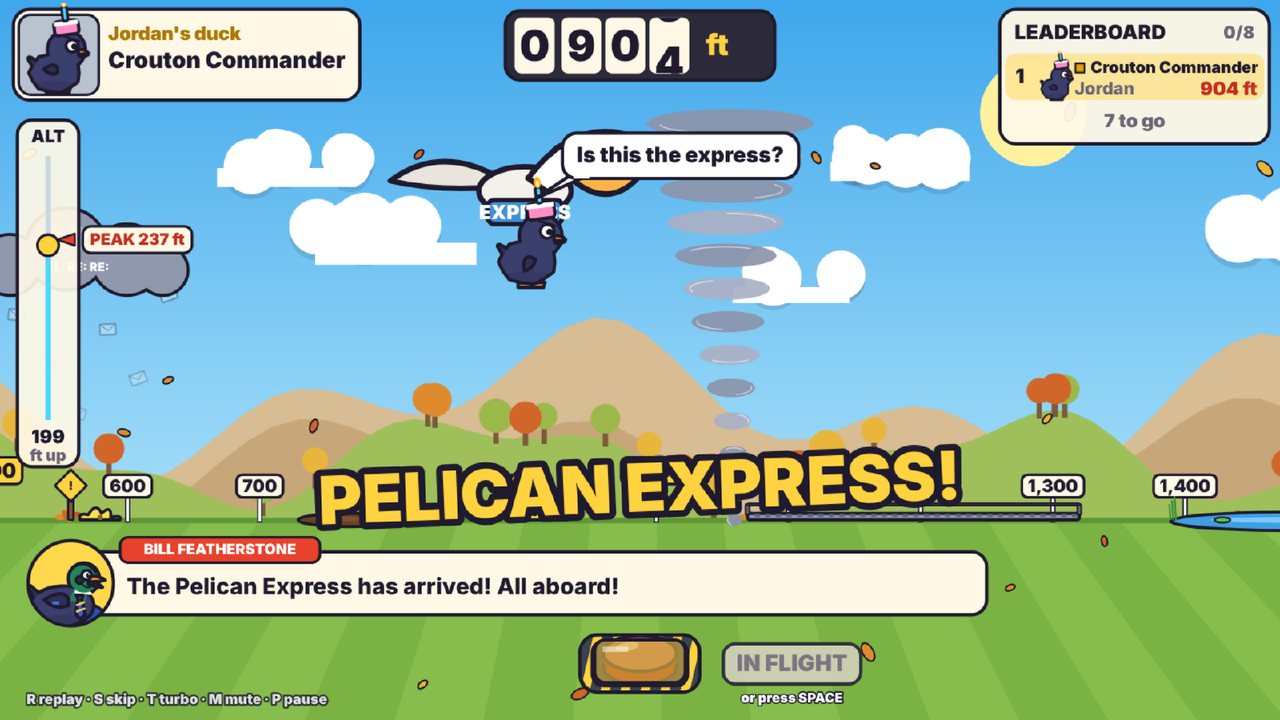
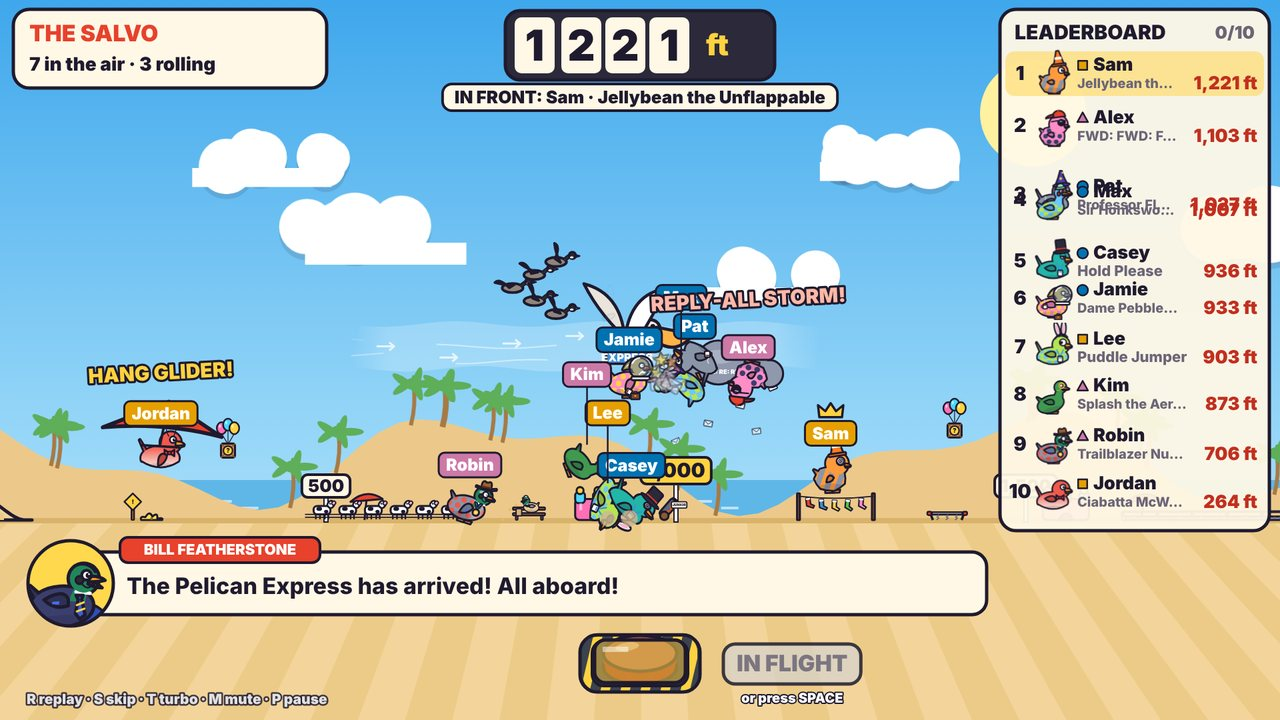
Salvo: Bill's running call, record-line moments, README
- Bill keeps the call going through the flight: the big moments first,
  then what he missed while talking, then who is in front.
- The first duck past last show's winning distance or the pond record
  line gets a call-out and a cheer; the board shows gold, silver and
  bronze after the volley.
- With more than 26 ducks the board keeps the top 8 and pages the rest.
- Reveal screen says LOCK THEM IN / INTO THE CANNON! in a salvo.
- Roster toggles fit with the new Salvo tick box.
- README rewritten for the salvo (show flow, keys, pacing, picture).

Claude-Session: https://claude.ai/code/session_01L5ntNDsEwxRWUo6xWcqN4w

diff --git a/index.html b/index.html
@@ -65,6 +65,7 @@
   #roster .side h3 { margin: 0; font-size: 24px; }
   #roster .side .hint { font-size: 17px; font-weight: 700; opacity: .75; }
   #roster .toggles label { display: flex; align-items: center; gap: 10px; font-size: 21px; font-weight: 800; }
+  #roster .toggles .tgrow { display: flex; gap: 22px; flex-wrap: wrap; }
   #roster .bar { display: flex; gap: 8px; flex-wrap: wrap; align-items: center; }
   #roster .total { font-size: 30px; font-weight: 900; }
   #roster .warn { color: #b0392b; font-size: 20px; font-weight: 900; min-height: 24px; }
@@ -487,6 +488,7 @@ C.LINES = {
   salvoLaunch: ['THERE THEY GO! All {n} of them!', '{n} ducks in the air! Keep your eye on yours!', 'What a sight! The whole flock is away!', 'BOOM! Find your duck, folks, find your duck!', "That's {n} ducks airborne and nobody steering!"],
   salvoLead: ['{duck} takes the lead!', '{player}\'s duck is out in front now!', 'A new duck in front: {duck}!', 'Here comes {duck}, right to the front!', '{duck} goes past everybody!'],
   salvoLast: ['Everybody is down except {duck}. Still going!', "All eyes on {duck}: the last duck moving!", 'One duck left out there: {duck}!', "{player}'s duck is the only one still rolling!"],
+  salvoCall: ['{duck} is out in front at {distance}!', 'Still {n} ducks on the move out there!', "{player}'s duck leads the way: {distance} and counting.", '{n} of them still going. Do not blink!', 'Out in front right now: {duck}!', "It's {duck} at the front of the flock. {n} ducks still moving!", 'Anybody could still win this. {n} ducks left out there!'],
   salvoRecord: ['{duck} is past the pond record line and still going!', "That's record country! {player}'s duck is out there!", '{duck} just flew past the all-time record!'],
   salvoWin: ['{duck} is the farthest duck out there: {distance}!', 'Nobody went farther than {duck}! {distance}!', "It's {duck} out in front when the feathers settle: {distance}!", '{duck} takes it by {margin}!'],
   debutIntro: ['A first ever launch for {player}! Be gentle, Thunderbill.', 'Welcome to the cannon, {player}! First time in the barrel.', "{player}'s very first duck. Everybody remembers their first."],
@@ -4288,7 +4290,7 @@ const Roster = {
       '<div class="bar"><button class="btn small green" id="onlybtn" title="Tick exactly these people and untick everyone else">Tick only these</button><button class="btn small ghost" id="pastebtn" title="Tick these people and keep everyone already ticked">Add to ticked</button></div></div>' +
       '<div class="box"><h3>Add one person</h3><div class="bar"><input type="text" id="addname" maxlength="40" placeholder="Name" style="flex:1;min-width:0"><select id="addteam">' + T.map((t, j) => '<option value="' + j + '">' + esc(t.name) + '</option>').join('') + '</select><button class="btn small green" id="addbtn">Add</button></div>' +
       '<div class="bar"><input type="text" id="rfind" placeholder="Find a name…" value="' + esc(this.filter) + '" style="flex:1;min-width:0"></div></div>' +
-      '<div class="box toggles"><label><input type="checkbox" id="tpractice"' + (S.settings.practice ? ' checked' : '') + '> Practice race (not saved, next show only)</label><label><input type="checkbox" id="tauto"' + (S.settings.autoAdvance ? ' checked' : '') + '> Auto-advance</label><label><input type="checkbox" id="tturbo"' + (S.settings.turboDefault ? ' checked' : '') + '> Turbo (2x)</label><label title="Every duck in the cannon at once. Untick to launch them one by one."><input type="checkbox" id="tsalvo"' + (S.settings.salvo !== false ? ' checked' : '') + '> Salvo (all ducks at once)</label>' +
+      '<div class="box toggles"><label><input type="checkbox" id="tpractice"' + (S.settings.practice ? ' checked' : '') + '> Practice race (not saved, next show only)</label><div class="tgrow"><label><input type="checkbox" id="tauto"' + (S.settings.autoAdvance ? ' checked' : '') + '> Auto-advance</label><label><input type="checkbox" id="tturbo"' + (S.settings.turboDefault ? ' checked' : '') + '> Turbo (2x)</label></div><label title="Every duck in the cannon at once. Untick to launch them one by one."><input type="checkbox" id="tsalvo"' + (S.settings.salvo !== false ? ' checked' : '') + '> Salvo (all ducks at once)</label>' +
       '<div class="bar"><button class="btn small ghost" id="rall">Tick all</button><button class="btn small ghost" id="rnone">Untick all</button></div></div>' +
       '</div></div>';
     const $ = s => this.el.querySelector(s);
@@ -6166,6 +6168,7 @@ function salvoFire(replay) {
   const plan = buildSalvoPlan(SV.fl, replay, photoT);
   SV.pb = { simT: 0, rate: 1, T: 0, segs: plan.segs, P: plan.P, endT: plan.endT, dur: plan.dur, drumAt: plan.drumAt, photoAt: plan.photoAt, photo: photoT > 0, fired: new Set(), done: false, brake: null };
   SV.recordAt = R.record;   // the pond record as it stood when the cannon went off
+  SV.pend = null;
   SV.phase = 'flight'; SV.pt = 0; SV.tags = []; SV.lead = null; SV.leadSince = 0; SV.lineAt = S.rt; SV.drumOn = false; SV.lastMover = false; SV.result = null;
   setBig(replay ? 'REPLAY' : 'IN FLIGHT', false);
   // BOOM: the biggest one Thunderbill has
@@ -6324,7 +6327,10 @@ function updateSalvoFlight(dt) {
         if (['geese', 'billboard', 'mud', 'tree', 'ooo', 'gatekeeper', 'replyall', 'castle', 'trampoline', 'bell'].includes(e.id)) Shake.add(3);
         // the big moments get the big caption (with whose duck it is); Bill calls the best of the rest when he is free
         if (sc >= 70 && cap && !Caps.freshBig(1.6) && t > 2.2) Caps.big(cap + '\n' + f.pl.name, { px: 84, color: def.kind === 'wildcard' ? '#d9b8ff' : '#ffd23f', dur: 2.2 });
-        if (!SV.replay && C.LINES['ev_' + e.id]) salvoSay('ev_' + e.id, vars, { delay: 0.3, prio: sc >= 55 ? 1 : 0 }, sc >= 70 ? 0 : sc >= 44 ? 1.6 : 2.6);
+        if (!SV.replay && C.LINES['ev_' + e.id]) {
+          // Bill is mid-sentence: the best of what he missed gets said as soon as he is free, while it is still news
+          if (!salvoSay('ev_' + e.id, vars, { delay: 0.3, prio: sc >= 55 ? 1 : 0 }, sc >= 70 ? 0 : sc >= 44 ? 1.6 : 2.6) && (!SV.pend || sc > SV.pend.sc)) SV.pend = { pool: 'ev_' + e.id, vars, sc, at: S.rt };
+        }
       }
       if (e.id === 'ufo' && !f.fired.has('u' + i) && t >= e.t + 2.2) { f.fired.add('u' + i); salvoTag(f, e.data.outcome === 'ahead' ? 'DROPPED AHEAD!' : e.data.outcome === 'behind' ? 'PUT BACK...' : 'ANTENNAE!', { color: '#d9b8ff' }); if (!SV.replay) salvoSay('ev_ufo_' + e.data.outcome, vars, { prio: 1 }, 1.2); }
       if (e.id === 'tornado' && !f.fired.has('tw' + i) && t >= e.tEnd) { f.fired.add('tw' + i); const back = Math.cos(e.data.ang) < 0; salvoTag(f, back ? 'WRONG WAY!' : 'FLUNG ONWARD!', { color: back ? '#ffb8a8' : '#ffd23f' }); salvoSnd('whoosh', 0.3, 0.7); if (!SV.replay) salvoSay(back ? 'ev_tornado_back' : 'ev_tornado_fwd', vars, { prio: 1 }, 1.6); }
@@ -6382,6 +6388,12 @@ function updateSalvoFlight(dt) {
         if (t > 3.5) { salvoSnd('rankup', 0.3, 1); salvoTag(front, 'LEADS!', { color: '#9be58b', px: 32, dur: 1.4 }); if (!SV.replay && moving > 1) salvoSay('salvoLead', { duck: front.pl.duck.name, player: front.pl.name }, { prio: 0 }, 4.5); }
       }
     } else SV.cand = null;
+  }
+  // Bill keeps the call going: something he missed a moment ago, or after a few quiet seconds who is in front
+  if (!SV.replay) {
+    if (SV.pend && S.rt - SV.pend.at > 2.4) SV.pend = null;
+    if (SV.pend && S.rt - SV.lineAt >= 2.0) { const pd = SV.pend; SV.pend = null; salvoSay(pd.pool, pd.vars, { prio: 0 }, 0); }
+    else if (front && n > 1 && moving > 1 && t > 4 && S.rt - SV.lineAt > 4.4 && pb.dur - pb.T > 3 && Caps.free()) salvoSay('salvoCall', { duck: front.pl.duck.name, player: front.pl.name, distance: fmtFt(Math.max(0, front.x)), n: moving }, { prio: 0 }, 0);
   }
   // the lines to beat (last show's winner, the pond record): the first duck across each gets a cheer
   if (front && !SV.replay && t > 2.5) {

diff --git a/README.md b/README.md
@@ -12,11 +12,11 @@
 
 <p align="center"><img src="docs/screenshot-title.jpg" alt="Title screen: Ol' Thunderbill fires a duck past the Duck Duck BOOM! logo" width="720"></p>
 
-A daily cannon-launch duck game for team calls. Everyone who booked a meeting today gets a randomly generated duck. **Ol' Thunderbill** fires each one across a field full of trampolines, geese, reply-all storms and the occasional UFO. The duck that lands farthest takes home **the Golden Loaf**.
+A daily cannon-launch duck game for team calls. Everyone who booked a meeting today gets a randomly generated duck. **Ol' Thunderbill** takes the whole flock in one barrel and fires them all at once (the **salvo**) across a field full of trampolines, geese, reply-all storms and the occasional UFO. The duck that lands farthest takes home **the Golden Loaf**.
 
-| Reveal today's ducks | Launch them one by one | Crown the winner |
+| Reveal today's ducks | Fire them all at once | Crown the winner |
 | --- | --- | --- |
-| <img src="docs/screenshot-reveal.jpg" alt="Duck reveal cards" width="280"> | <img src="docs/screenshot-flight.jpg" alt="A duck riding the Pelican Express mid-flight" width="280"> | <img src="docs/screenshot-podium.jpg" alt="Results podium with the Golden Loaf" width="280"> |
+| <img src="docs/screenshot-reveal.jpg" alt="Duck reveal cards" width="280"> | <img src="docs/screenshot-flight.jpg" alt="The salvo: ten ducks in the air at once, with name tags and a live leaderboard" width="280"> | <img src="docs/screenshot-podium.jpg" alt="Results podium with the Golden Loaf" width="280"> |
 
 <p align="center"><img src="docs/screenshot-lilypad.jpg" alt="A duck bounces off a lily pad and out of the pond while the tornado roams the field" width="720"><br><em>Every day's field is different, and no single obstacle gets to stop the show: a lily pad bounces this duck back out of the pond while the tornado wanders past.</em></p>
 
@@ -45,9 +45,9 @@ If the laptop struggles while screen-sharing, the game notices the dropped frame
 There are five screens, and the **big red button** (or **Space**) is the only control you need.
 
 1. **Title:** the animated logo, Ol' Thunderbill idling with a smoldering fuse, today's date and the Pond Forecast teaser. If today's show was interrupted, the button reads **RESUME SHOW**. A finished show never comes back on the big button: it's already in the Waddle of Fame, and **Last results** reopens its panorama for copying. An unfinished show from an earlier day leaves the big button on **START** and gets its own dated **Resume** button instead.
-2. **Who booked today?** A saved roster grouped by three teams, up to 40 ducks. See [Editing today's names](#editing-todays-names) below. You can also tick **Practice race** (not saved; it covers one show and then switches itself off, and the big button says so), **Auto-advance** and **Turbo** here.
-3. **Duck reveal:** cards flip in a cascade and pause on Epic and Legendary ducks. Click any card to reroll that duck. Spotted a typo or a missing person? **◀ Edit names** goes back to the roster before anything starts. **LOCK IN & SHUFFLE** shuffles the launch order on screen, then the **Pond Forecast** appears.
-4. **Launches:** one duck at a time. **NEXT DUCK** plays the intro card and the ladder climb. The safety cover flips open, then **LIGHT THE FUSE** runs the 3-2-1 countdown, the launch call "FIRE IN THE DUCK!", the flight, the landing and the leaderboard update.
+2. **Who booked today?** A saved roster grouped by three teams, up to 40 ducks. See [Editing today's names](#editing-todays-names) below. You can also tick **Practice race** (not saved; it covers one show and then switches itself off, and the big button says so), **Auto-advance**, **Turbo** and **Salvo** here (untick Salvo to launch the ducks one by one instead).
+3. **Duck reveal:** cards flip in a cascade and pause on Epic and Legendary ducks. Click any card to reroll that duck. Spotted a typo or a missing person? **◀ Edit names** goes back to the roster before anything starts. **LOCK THEM IN** locks the ducks, then the **Pond Forecast** appears.
+4. **The salvo:** every duck hops into the cannon (a counter on the barrel keeps score). The safety cover flips open, then **LIGHT THE FUSE** runs the 3-2-1 countdown and "FIRE IN THE DUCKS!" sends the whole flock up together. One camera follows the ducks that are still moving. Every duck wears its player's name; call-outs pop up over whatever happens to it; arrows on the edge of the picture point at ducks that have left it (the one in space, say). The leaderboard re-sorts live as ducks pass each other, a crown marks whoever is in front, and Bill calls it like a race. Each duck plants its flag where it stops. When only one is still going, everybody watches that one. Then the farthest duck gets its card and **SEE RESULTS** takes over.
 5. **Results:** a podium with the Golden Loaf (with the winning margin when it's close), the Good Sport Feather and a list of everyone else, then awards and highlights, then a panorama of every landing flag with **Copy results** for the team chat.
 
 ### Editing today's names
@@ -60,16 +60,16 @@ The roster is saved in the browser, so you only build it once. Each day you just
 - **Find a name** filters the lists when the roster gets long. Names are sorted alphabetically within each team.
 - **New day:** if ticks are left over from an earlier day, a yellow banner offers to untick them. Each person's tick remembers its day, so people you tick or add today are never caught by it.
 - **More than 40 ticked:** the warning names who sits out (the roster's own order: team, then name), and so does a note when the show starts.
-- **During the show** (press **P**): **Add a late player** launches them last (and ticks them on the roster if they were already on it), and **Remove someone who hasn't launched yet** takes out a duck that was ticked by mistake.
+- **During the show** (press **P**): **Add a late player** puts them in the cannon if the fuse is not lit yet, or gives them a volley of their own afterwards (and ticks them on the roster if they were already on it), and **Remove someone who hasn't launched yet** takes out a duck that was ticked by mistake.
 
 ### Keys
 
 | Key | Action |
 | --- | --- |
 | Space | The big red button |
-| R | Instant replay of the last flight, with sound and captions. Replays use the quicker turbo pacing. |
-| T | Turbo (about 1.5x overall): shorter intros and countdown, quicker flights. |
-| S | Skip to this flight's result (silent) |
+| R | Instant replay of the volley (or of the last flight in one-by-one mode). Replays use the quicker turbo pacing and are never scored twice. |
+| T | Turbo: quicker loading and countdown, and a flight in a little over half the time. |
+| S | Skip ahead: past the loading, the countdown, or straight to where everyone lands (silent) |
 | M | Mute |
 | F | Fullscreen |
 | P | Pause and settings: add a late player, remove a duck that hasn't launched, teams, volume, data. Pause freezes everything, sound included. P again resumes. |
@@ -78,9 +78,13 @@ Hotkeys are ignored while you're typing in a text field. Esc stays the browser's
 
 ### Pacing
 
-At 1x, each duck takes roughly 24 seconds: intro 1.5 s, ladder and gauges 2.5 s, countdown 3 s, the flight and a 2.5 s result. A flight with no events plays for about 11 s, a typical one about 12 s, and one packed with events 15–20 s (9 in 10 flights are done within 19 s; the rare monster flight tops out around 25 s). In turbo a typical flight takes about 8 s.
+A whole salvo show runs about a minute from the first duck hopping in to the results: loading about 5 s, the countdown 3 s, and a flight of about 29 s for a dozen ducks (never more than about 40 s, even with 40). One duck alone flies for about 14 s. Turbo brings a 12-duck flight down to about 17 s.
 
-Flights play close to real time. The launch always plays at exactly full speed, and every event, the landing and the finish play at or very near it. Only quiet stretches run faster, and the speed always eases up and down, so the duck never appears to skip ahead. Close to the ground it barely speeds up; it speeds up most high in the sky, where the camera is zoomed far out. A long quiet slide or bounce-out is fitted into a few seconds, and the camera pulls back while it runs faster so the scenery never streaks past. Captions and speech bubbles always run in real time and stay up for at least 2 seconds. Shows with more than 15 ducks start in turbo.
+The salvo plays at full speed while it matters: the launch, every event, and as long as two or more ducks are in the air. Once most of the flock is down, the stragglers' quiet stretches run faster (the speed only ever eases up and down), and every duck's final stop near the end plays at full speed again. A finish within 25 ft gets a **PHOTO FINISH!** in slow motion, and a drumroll builds over the last seconds.
+
+**One-by-one mode** is still there for a longer show: untick **Salvo** on the roster screen or in Settings (or open the page with `?classic`). Then each duck gets its own intro card, ladder climb, countdown and flight, about 24 seconds per duck: intro 1.5 s, ladder and gauges 2.5 s, countdown 3 s, the flight and a 2.5 s result. A flight with no events plays for about 11 s, a typical one about 12 s, and one packed with events 15–20 s (9 in 10 flights are done within 19 s; the rare monster flight tops out around 25 s). In turbo a typical flight takes about 8 s. Distances are identical in both modes: each duck flies the same seeded flight either way.
+
+In one-by-one mode, flights play close to real time. The launch always plays at exactly full speed, and every event, the landing and the finish play at or very near it. Only quiet stretches run faster, and the speed always eases up and down, so the duck never appears to skip ahead. Close to the ground it barely speeds up; it speeds up most high in the sky, where the camera is zoomed far out. A long quiet slide or bounce-out is fitted into a few seconds, and the camera pulls back while it runs faster so the scenery never streaks past. Captions and speech bubbles always run in real time and stay up for at least 2 seconds. Shows with more than 15 ducks start in turbo.
 
 ## What's in it
 
@@ -90,10 +94,11 @@ Flights play close to real time. The launch always plays at exactly full speed, 
 - **Cannon moments:** misfire with a bonus-powder comeback (about 1.3%), backfire to a negative distance (about 1%) and the fake-out fizzle (about 2%, cosmetic only). Other flight touches are the hat that flies off and sometimes beats its duck, a photo finish in slow motion when a duck lands within 25 ft of the leader (with the margin called out), **personal bests**, and a drumroll for a last duck who can still win, which builds over the final seconds of the flight and ends right on the landing cymbal.
 - **Daily conditions:** wind (calm, tailwind or headwind, up to 20 mph), sky (sunny, overcast, drizzle, fog, sunset or night) and a modifier of the day on about half of days: Low Gravity, Bouncy Day, Goose Migration, Trampoline Park, Ice Rink (the field turns to ice and some ponds freeze over), Big Head Mode, Throwback Mode or Turbo Cannon. Fridays add Fri-Yay party mode. Seasonal themes come from the date: pumpkins and bats in October, falling leaves in autumn, a turkey in a duck disguise during Thanksgiving week, snow and twinkle lights from December to February, flowers and rain in spring, and a beach in summer. The course changes daily too.
 - **Commentary:** Bill Featherstone narrates in a lower-third caption bar (about 200 lines), and the ducks talk back in speech bubbles (about 115 lines). Lines are drawn from shuffled bags so nothing repeats within a show, and Bill always talks about what's happening now instead of falling behind. Commentary roasts the duck, never the player. An optional announcer voice uses the Web Speech API and is off by default.
-- **Show moments:** the next few ducks wait their turn on the hill (**UP NEXT**) and hop when the cannon fires, and each duck waddles over to the ladder. Bill invites the call to count down the first launch, welcomes back the last show's champion and anyone on a winning streak, announces **Bill's pick** to win after the Pond Forecast (it's also tagged on that duck's card) and owns up at the end, and the results crown a **Team of the Day** (the team whose ducks flew farthest on average). Leaderboard rows slide into place when a duck takes the lead. On the title screen, Thunderbill lobs a demo duck every few seconds while people join. During a flight, the duck's row on the leaderboard climbs live as it passes each rival (with a soft blip), a chip under the distance counter shows the gap to the leader and turns green once the duck is ahead (the first duck chases the last show's winning distance or the pond record instead), the altitude gauge keeps a **PEAK** marker, a falling whistle follows a quiet drop to the first touchdown, Bill calls the top of the arc and the first touchdown when nothing else is happening, and a long slide gets a **STILL GOING!** banner and a word from the duck. The title screen shows a rotating line of the running story (defending champion, pond record, the Duck of the Month race, Bill's record). Bill mentions the day's modifier, a strong wind or an unusual sky while a duck climbs the ladder, welcomes anyone launching for the very first time, calls out a first ever Golden Loaf, and keeps a running tally of his own picks to win (it is also on the Waddle of Fame). The five highlights are always five different stories and include the winner's best moment.
+- **Salvo moments:** the whole flock queues on the hill and hops into the barrel one after another; a lead change gets a blip, a **LEADS!** call-out and a crown; the first duck past last show's winning distance or the pond record line gets a cheer; a misfired duck plops out, climbs back in and goes off on its own a moment later; after the volley the board shows gold, silver and bronze. Bill calls something about every two seconds: the big moments first, then whatever he missed, then who is in front.
+- **Show moments** (many of these belong to one-by-one mode): the next few ducks wait their turn on the hill (**UP NEXT**) and hop when the cannon fires, and each duck waddles over to the ladder. Bill invites the call to count down the first launch, welcomes back the last show's champion and anyone on a winning streak, announces **Bill's pick** to win after the Pond Forecast (it's also tagged on that duck's card) and owns up at the end, and the results crown a **Team of the Day** (the team whose ducks flew farthest on average). Leaderboard rows slide into place when a duck takes the lead. On the title screen, Thunderbill lobs a demo duck every few seconds while people join. During a flight, the duck's row on the leaderboard climbs live as it passes each rival (with a soft blip), a chip under the distance counter shows the gap to the leader and turns green once the duck is ahead (the first duck chases the last show's winning distance or the pond record instead), the altitude gauge keeps a **PEAK** marker, a falling whistle follows a quiet drop to the first touchdown, Bill calls the top of the arc and the first touchdown when nothing else is happening, and a long slide gets a **STILL GOING!** banner and a word from the duck. The title screen shows a rotating line of the running story (defending champion, pond record, the Duck of the Month race, Bill's record). Bill mentions the day's modifier, a strong wind or an unusual sky while a duck climbs the ladder, welcomes anyone launching for the very first time, calls out a first ever Golden Loaf, and keeps a running tally of his own picks to win (it is also on the Waddle of Fame). The five highlights are always five different stories and include the winner's best moment.
 - **Sound:** fuse sizzle, crank clicks, the cannon BOOM, whoosh, slide whistle, BOING, splat, honk, bonk, bell DING, per-duck quacks, crowd ooh and cheer, sad trombone and a kazoo fanfare. All melodies are original. Everything runs through one compressor and a limiter, and the volume slider scales the whole mix evenly. The default volume is 60%. Long sounds stop when you skip a flight or leave the screen.
 - **Waddle of Fame:** wins per player and per team, the current win streak, the top 10 longest launches, Duck of the Month standings and a log of legendary moments. The last real race's winner gets a small crown, and a new pond record gets fireworks.
-- **Bonus Ammo** (off by default): in Settings, turn it on, then give a player up to 3 extra shots on the roster screen. Bonus shots launch at the end, and each player's best shot counts. The very last shot of the show gets the drumroll, bonus or not.
+- **Bonus Ammo** (off by default): in Settings, turn it on, then give a player up to 3 extra shots on the roster screen. Bonus shots fly as a second, smaller volley (in one-by-one mode they launch at the end), and each player's best shot counts. The very last shot of the show gets the drumroll, bonus or not.
 
 ## Fairness
 
